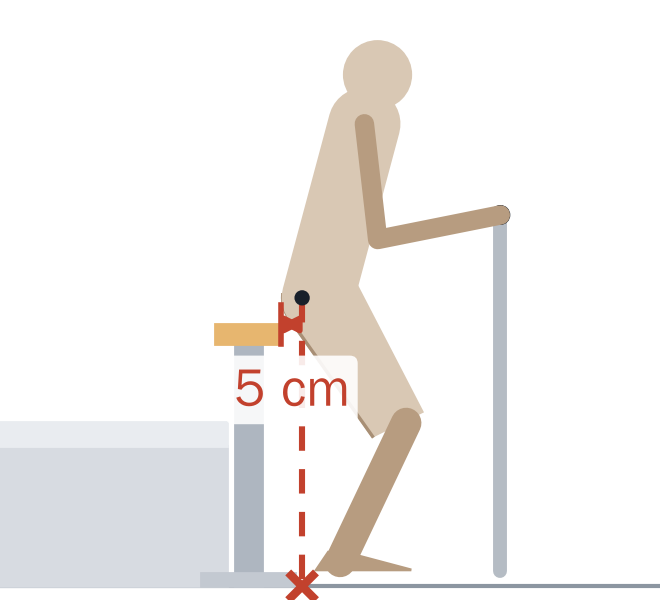
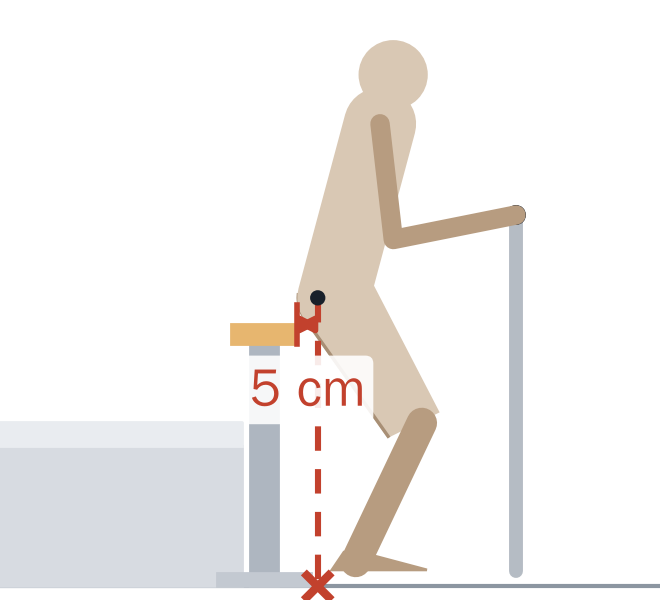
Deck v7 (zh): support-zone comparison, load-path figure, top-view stability with support polygon, risk anatomy, limits roadmap, current-design team figure, framed clips; published
Claude-Session: https://claude.ai/code/session_0189MFebuQQaozftdhaMXEmZ

Changed region(s): [[0.303, 0.06, 0.8182, 1.0]]

diff --git a/presentation/slides/whynot.html b/presentation/slides/whynot.html
@@ -1,44 +1,45 @@
-<section id="whynot" data-transition="fade" style="background:#FCFBF8;color:#18202A;font-family:'Noto Sans SC', Arial, sans-serif;padding:128px 128px 160px;display:flex;flex-direction:column;gap:24px">
-<div style="display:flex;flex-direction:column;gap:14px">
+<section id="whynot" data-transition="fade" style="background:#FCFBF8;color:#18202A;font-family:'Noto Sans SC', Arial, sans-serif;padding:128px 128px 160px;display:flex;flex-direction:column;gap:16px">
+<div style="display:flex;flex-direction:column;gap:12px">
 <p style="font-size:26px;color:#9A5408;letter-spacing:2px">2 · 方案比较</p>
 <h2 style="font-family:'Noto Serif SC', Georgia, serif;font-size:46px;font-weight:700;line-height:1.2">省力和抬高床相当；真正的差别在腿一软时：起身大半程，座板还在臀部下面</h2>
 </div>
-<div style="display:grid;grid-template-columns:304px 1fr 1fr 1fr 1fr;column-gap:16px;row-gap:6px;align-items:center">
+<div style="display:grid;grid-template-columns:280px 1fr 1fr 1fr 1fr;column-gap:12px;row-gap:0;align-items:stretch">
+<div style="display:flex;flex-direction:column;justify-content:center;gap:14px;padding-right:12px"><p style="font-size:24px;line-height:1.3;color:#3F4A57">虚线：腿一软，臀部直着往下落</p><p style="font-size:24px;line-height:1.3;color:#3F4A57"><span style="color:#2F7A55">●</span> 落在支撑面上</p><p style="font-size:24px;line-height:1.3;color:#3F4A57"><span style="color:#C2412D">✕</span> 落空；数字 = 离支撑边缘多远</p></div>
+<div style=";padding:0 3px;display:flex;justify-content:center"><img src="/_blob/78a064d274562d6e97710158ee9fc28a" alt="低床 0.42 m 加 L 形扶手，起身约 70% 时：臀部直着落下的落点在床沿外 16 cm，落到地上" style="width:330px;height:300px;object-fit:contain;background:#FFFFFF;border-radius:14px;border:1px solid #E2DED5"></div>
+<div style=";padding:0 3px;display:flex;justify-content:center"><img src="/_blob/a2100d1d5f7be02d0c52501c961d5416" alt="抬高床 0.58 m 加扶手，起身约 70% 时：落点在床沿外 16 cm，落到地上" style="width:330px;height:300px;object-fit:contain;background:#FFFFFF;border-radius:14px;border:1px solid #E2DED5"></div>
+<div style=";padding:0 3px;display:flex;justify-content:center"><img src="/_blob/7b67e31faa08ca3e5bf83d219ba56f60" alt="竖直升降座板，起身约 70% 时：座板只往上走，落点在座板前缘外 5 cm" style="width:330px;height:300px;object-fit:contain;background:#FFFFFF;border-radius:14px;border:1px solid #E2DED5"></div>
+<div style="background:#FBF3E8;padding:0 3px;display:flex;justify-content:center"><img src="/_blob/02fcec413c2cbe4c26c7fd9f681d8328" alt="起身台曲线座板，起身约 70% 时：座板跟着大腿前移、上升、前倾，落点落在座板上" style="width:330px;height:300px;object-fit:contain;background:#FFFFFF;border-radius:14px;border:3px solid #B4620A"></div>
 <div></div>
-<img src="/_blob/cce52c77347373ea793ff779e129e5f9" alt="低床 0.42 m 加 L 形扶手：人起到一半时臀部已离开床沿" style="width:324px;height:176px;object-fit:contain;background:#FFFFFF;border-radius:14px;border:1px solid #E2DED5">
-<img src="/_blob/d3b35427318241aae1961dad250d24c9" alt="床脚垫高到 0.58 m 加扶手：人起到一半时臀部已离开床沿" style="width:324px;height:176px;object-fit:contain;background:#FFFFFF;border-radius:14px;border:1px solid #E2DED5">
-<img src="/_blob/5040f5f7cf3e67828d619170e1e44709" alt="竖直升降座板：座板只往上走，人起到一半时臀部已到了座板前面" style="width:324px;height:176px;object-fit:contain;background:#FFFFFF;border-radius:14px;border:1px solid #E2DED5">
-<img src="/_blob/345c913f14d872c0e69ea4b5d657dee8" alt="起身台：斜导轨座板跟着大腿前移、上升、前倾，人起到一半时座板还在臀部下面" style="width:324px;height:176px;object-fit:contain;background:#FFFFFF;border-radius:14px;border:2px solid #B4620A">
-<div></div>
-<p style="font-size:24px;font-weight:700;text-align:center">低床 0.42 m + L 扶手</p>
-<p style="font-size:24px;font-weight:700;text-align:center">抬高床 0.58 m + 扶手</p>
-<p style="font-size:24px;font-weight:700;text-align:center">竖直升降座板</p>
-<p style="font-size:24px;font-weight:700;text-align:center;color:#9A5408">起身台（曲线座板）</p>
-<p style="font-size:24px;line-height:1.3;color:#66707C;border-top:1px solid #E2DED5;padding-top:10px">省力：最吃力时的 effort</p>
-<p style="font-size:28px;text-align:center;color:#3F4A57;border-top:1px solid #E2DED5;padding-top:10px">0.40</p>
-<p style="font-size:28px;text-align:center;color:#3F4A57;border-top:1px solid #E2DED5;padding-top:10px">0.29</p>
-<p style="font-size:28px;text-align:center;color:#3F4A57;border-top:1px solid #E2DED5;padding-top:10px">—</p>
-<p style="font-size:28px;text-align:center;font-weight:700;background:#FBF3E8;border-top:1px solid #E2DED5;padding-top:10px">0.26</p>
-<p style="font-size:24px;line-height:1.3;color:#66707C;border-top:1px solid #E2DED5;padding-top:10px">腿一软 ① 髋直着落</p>
-<p style="font-size:28px;text-align:center;color:#3F4A57;border-top:1px solid #E2DED5;padding-top:10px">14%</p>
-<p style="font-size:28px;text-align:center;color:#3F4A57;border-top:1px solid #E2DED5;padding-top:10px">15%</p>
-<p style="font-size:28px;text-align:center;color:#3F4A57;border-top:1px solid #E2DED5;padding-top:10px">43%</p>
-<p style="font-size:28px;text-align:center;font-weight:700;background:#FBF3E8;border-top:1px solid #E2DED5;padding-top:10px">100%（每人 ≥ 86%）</p>
-<p style="font-size:24px;line-height:1.3;color:#66707C;border-top:1px solid #E2DED5;padding-top:10px">② 膝软、髋往后落</p>
-<p style="font-size:28px;text-align:center;color:#3F4A57;border-top:1px solid #E2DED5;padding-top:10px">41%</p>
-<p style="font-size:28px;text-align:center;color:#3F4A57;border-top:1px solid #E2DED5;padding-top:10px">32%</p>
-<p style="font-size:28px;text-align:center;color:#3F4A57;border-top:1px solid #E2DED5;padding-top:10px">—</p>
-<p style="font-size:28px;text-align:center;font-weight:700;background:#FBF3E8;border-top:1px solid #E2DED5;padding-top:10px">73%</p>
-<p style="font-size:24px;line-height:1.3;color:#66707C;border-top:1px solid #E2DED5;padding-top:10px">③ 直挺挺往后倒</p>
-<p style="font-size:28px;text-align:center;color:#3F4A57;border-top:1px solid #E2DED5;padding-top:10px">接得住</p>
-<p style="font-size:28px;text-align:center;color:#3F4A57;border-top:1px solid #E2DED5;padding-top:10px">接得住</p>
-<p style="font-size:28px;text-align:center;color:#3F4A57;border-top:1px solid #E2DED5;padding-top:10px">—</p>
-<p style="font-size:28px;text-align:center;font-weight:700;background:#FBF3E8;border-top:1px solid #E2DED5;padding-top:10px">28%</p>
+<p style="font-size:24px;font-weight:700;text-align:center;padding:6px 0;">低床 0.42 m + L 扶手</p>
+<p style="font-size:24px;font-weight:700;text-align:center;padding:6px 0;">抬高床 0.58 m + 扶手</p>
+<p style="font-size:24px;font-weight:700;text-align:center;padding:6px 0;">竖直升降座板</p>
+<p style="font-size:24px;font-weight:700;text-align:center;padding:6px 0;color:#9A5408;background:#FBF3E8">起身台（曲线座板）</p>
+<p style="font-size:24px;line-height:1.25;color:#66707C;border-top:1px solid #E2DED5;padding:6px 0;height:100%;display:flex;align-items:center">省力 effort（越短越好）</p>
+<div style="display:flex;align-items:center;gap:12px;height:100%;padding:6px 10px;border-top:1px solid #E2DED5;"><div style="width:230px;height:30px;background:#8C96A1;border-radius:0 6px 6px 0"></div><p style="font-size:28px;color:#3F4A57">0.40</p></div>
+<div style="display:flex;align-items:center;gap:12px;height:100%;padding:6px 10px;border-top:1px solid #E2DED5;"><div style="width:167px;height:30px;background:#8C96A1;border-radius:0 6px 6px 0"></div><p style="font-size:28px;color:#3F4A57">0.29</p></div>
+<div style="display:flex;align-items:center;gap:12px;height:100%;padding:6px 10px;border-top:1px solid #E2DED5;"><p style="font-size:28px;color:#66707C">—</p></div>
+<div style="display:flex;align-items:center;gap:12px;height:100%;padding:6px 10px;border-top:1px solid #E2DED5;background:#FBF3E8"><div style="width:150px;height:30px;background:#B4620A;border-radius:0 6px 6px 0"></div><p style="font-size:28px;font-weight:700;color:#18202A">0.26</p></div>
+<p style="font-size:24px;line-height:1.25;color:#66707C;border-top:1px solid #E2DED5;padding:6px 0;height:100%;display:flex;align-items:center">腿一软 ① 髋直着落</p>
+<div style="display:flex;align-items:center;gap:12px;height:100%;padding:6px 10px;border-top:1px solid #E2DED5;"><div style="width:230px;height:30px;background:#F3DCD6;border-radius:0 6px 6px 0;display:flex"><div style="width:32px;height:30px;background:#2F7A55;display:flex;align-items:center;justify-content:center"></div></div><p style="font-size:28px;color:#3F4A57">14%</p></div>
+<div style="display:flex;align-items:center;gap:12px;height:100%;padding:6px 10px;border-top:1px solid #E2DED5;"><div style="width:230px;height:30px;background:#F3DCD6;border-radius:0 6px 6px 0;display:flex"><div style="width:34px;height:30px;background:#2F7A55;display:flex;align-items:center;justify-content:center"></div></div><p style="font-size:28px;color:#3F4A57">15%</p></div>
+<div style="display:flex;align-items:center;gap:12px;height:100%;padding:6px 10px;border-top:1px solid #E2DED5;"><div style="width:230px;height:30px;background:#F3DCD6;border-radius:0 6px 6px 0;display:flex"><div style="width:99px;height:30px;background:#2F7A55;display:flex;align-items:center;justify-content:center"></div></div><p style="font-size:28px;color:#3F4A57">43%</p></div>
+<div style="display:flex;align-items:center;gap:12px;height:100%;padding:6px 10px;border-top:1px solid #E2DED5;background:#FBF3E8"><div style="width:230px;height:30px;background:#F3DCD6;border-radius:0 6px 6px 0;display:flex"><div style="width:230px;height:30px;background:#2F7A55;display:flex;align-items:center;justify-content:center"><p style="font-size:24px;color:#FFFFFF;font-weight:700">每人 ≥ 86%</p></div></div><p style="font-size:28px;font-weight:700;color:#18202A">100%</p></div>
+<p style="font-size:24px;line-height:1.25;color:#66707C;border-top:1px solid #E2DED5;padding:6px 0;height:100%;display:flex;align-items:center">② 膝软、髋往后落</p>
+<p style="font-size:28px;text-align:center;color:#3F4A57;border-top:1px solid #E2DED5;padding:6px 0;height:100%">41%</p>
+<p style="font-size:28px;text-align:center;color:#3F4A57;border-top:1px solid #E2DED5;padding:6px 0;height:100%">32%</p>
+<p style="font-size:28px;text-align:center;color:#3F4A57;border-top:1px solid #E2DED5;padding:6px 0;height:100%">—</p>
+<p style="font-size:28px;text-align:center;font-weight:700;color:#18202A;background:#FBF3E8;border-top:1px solid #E2DED5;padding:6px 0;height:100%">73%</p>
+<p style="font-size:24px;line-height:1.25;color:#66707C;border-top:1px solid #E2DED5;padding:6px 0;height:100%;display:flex;align-items:center">③ 直挺挺往后倒</p>
+<p style="font-size:28px;text-align:center;color:#3F4A57;border-top:1px solid #E2DED5;padding:6px 0;height:100%">接得住</p>
+<p style="font-size:28px;text-align:center;color:#3F4A57;border-top:1px solid #E2DED5;padding:6px 0;height:100%">接得住</p>
+<p style="font-size:28px;text-align:center;color:#3F4A57;border-top:1px solid #E2DED5;padding:6px 0;height:100%">—</p>
+<p style="font-size:28px;text-align:center;font-weight:700;color:#18202A;background:#FBF3E8;border-top:1px solid #E2DED5;padding:6px 0;height:100%">28%</p>
 </div>
-<div style="display:grid;grid-template-columns:1fr 1fr;gap:32px">
-<p style="font-size:26px;line-height:1.45"><b>省力：</b>比低床省 33%；和抬高床相当（再省约 10%，但 22/81 人略费力）</p>
-<p style="font-size:26px;line-height:1.45"><b>接住：</b>人一站起来，臀部已在床沿外约 25 cm；座板一路跟在下面。往后倒时床更好 → 座板后缘软包</p>
+<p style="font-size:24px;color:#66707C">图只是一个瞬间（1.60 m 典型用户，起身约 70%）；绿条和百分比算的是整个起身过程：腿一软时臀部仍落在支撑面上的那段占比</p>
+<div style="display:grid;grid-template-columns:870px 1fr;gap:32px">
+<p style="font-size:26px;line-height:1.4"><b>省力：</b>比低床省 33%；和抬高床相当（再省约 10%，但 22/81 人略费力）</p>
+<p style="font-size:26px;line-height:1.4"><b>接住：</b>起到约七成时臀部已在床沿外 16 cm（站直时约 25 cm）；座板一路跟在下面。往后倒时床更好 → 座板后缘软包</p>
 </div>
 <p style="position:absolute;left:128px;bottom:64px;width:1664px;font-size:24px;color:#66707C">2D 准静态，81 人中位数。①②③：起身中任一时刻腿一软，臀部落点仍在支撑面上的起身阶段占比（床按坐在床沿算）；三种是边界情况。竖直升降只算了 ①。effort 越低越轻松</p>
-<aside>这一页是主线。先说实话：只比省力，把床垫高到 0.58 米加好扶手已经不错；起身台比低床省约三分之一，和抬高床只差约 10%，还有 22 人略费力，所以省力上只是相当。真正的差别在腿一软的时候。上面四张图是同一时刻：人起到一半，臀部已在床沿外约 25 厘米，床够不着；竖直座板只往上走，臀部在它前面；只有曲线座板一路跟在下面。髋直着往下落，床只在起身最开始约 15% 接得住，竖直升降 43%，座板全程接得住；膝软往后落，座板 73%。但直挺挺往后倒时床更好，所以座板后缘要软包。</aside>
+<aside>这一页是主线。先说实话：只比省力，把床垫高到 0.58 米加好扶手已经不错；起身台比低床省约三分之一，和抬高床只差约 10%，还有 22 人略费力，所以省力上只是相当。真正的差别在腿一软的时候。四张图是同一时刻，起身约七成，看虚线落点：两种床都在床沿外约 16 厘米，站直时约 25 厘米；竖直座板只往上走，落在它前面 5 厘米；只有曲线座板还托在下面。绿条：床只在起身开头约 15% 接得住，竖直升降 43%，座板全程；膝软往后落，座板 73%。但直挺挺往后倒时床更好，所以座板后缘要软包。</aside>
 </section>

diff --git a/presentation/slides/stability.html b/presentation/slides/stability.html
@@ -4,7 +4,7 @@
 <h2 style="font-family:'Noto Serif SC', Georgia, serif;font-size:60px;font-weight:700;line-height:1.2">人在台上不会翻；人在地上扶一下会翻，所以和床固定</h2>
 </div>
 <div style="display:grid;grid-template-columns:1010px 1fr;gap:40px;align-items:start">
-<img src="ASSET:presentation/assets_v7/stability_top.png" alt="俯视图：底座即支撑多边形；三种人在台上的工况，地面合力作用点都在底座内（绿点）；人站在地上往床头推横杆 156 N 时，合力作用点压到床头侧边上（红点），台架开始翻；底座靠床一边两端和床固定" style="width:1010px;height:622px;object-fit:contain;background:#FBFAF6;border-radius:20px;border:1px solid #E2DED5">
+<img src="/_blob/adf94fd8b2009c42d59fcc95e9500b83" alt="俯视图：底座即支撑多边形；三种人在台上的工况，地面合力作用点都在底座内（绿点）；人站在地上往床头推横杆 156 N 时，合力作用点压到床头侧边上（红点），台架开始翻；底座靠床一边两端和床固定" style="width:1010px;height:622px;object-fit:contain;background:#FBFAF6;border-radius:20px;border:1px solid #E2DED5">
 <div style="display:flex;flex-direction:column;gap:26px">
 <div style="display:flex;gap:16px;align-items:flex-start"><div style="flex:none;padding-top:11px"><span style="display:block;width:22px;height:22px;border-radius:11px;background:#2F7A55"></span></div><p style="font-size:28px;line-height:1.45;color:#3F4A57"><b style="color:#18202A">人在台上</b>：手拉扶手是人和台架之间的内力，合力作用点都留在底座内</p></div>
 <div style="display:flex;gap:16px;align-items:flex-start"><div style="flex:none;padding-top:11px"><span style="display:block;width:22px;height:22px;border-radius:11px;background:#C2412D"></span></div><p style="font-size:28px;line-height:1.45;color:#3F4A57"><b style="color:#18202A">人在地上</b>：推横杆是外力，往床头推 <b style="color:#A2431F">156 N</b>（约 16 kg 力）合力就压到边上，开始翻</p></div>

diff --git a/presentation/slides/risk.html b/presentation/slides/risk.html
@@ -4,7 +4,7 @@
 <h2 style="font-family:'Noto Serif SC', Georgia, serif;font-size:60px;font-weight:700;line-height:1.2">六个风险：在哪里、怎么防</h2>
 </div>
 <div style="display:grid;grid-template-columns:590px 1fr;gap:40px;align-items:start">
-<img src="ASSET:presentation/assets_v7/risk_anatomy.png" alt="侧视图：座板抬升到最大前倾时，编号标出四个风险所在的零件" style="width:590px;height:508px;object-fit:contain;background:#FBFAF6;border-radius:20px;border:1px solid #E2DED5">
+<img src="/_blob/04ab201affefc6d64ecffd7c30fca2f8" alt="侧视图：座板抬升到最大前倾时，编号标出四个风险所在的零件" style="width:590px;height:508px;object-fit:contain;background:#FBFAF6;border-radius:20px;border:1px solid #E2DED5">
 <div style="display:flex;flex-direction:column;gap:18px">
 <div style="display:flex;gap:18px;align-items:flex-start"><span style="flex:none;width:48px;height:48px;border-radius:24px;background:#B4620A;color:#FFFFFF;font-size:28px;font-weight:700;display:flex;align-items:center;justify-content:center">1</span><div style="display:flex;flex-direction:column;gap:4px"><p style="font-size:30px;font-weight:700;line-height:1.3">夹手、夹腿 <span style="color:#9A5408">· 间隙 3 cm</span></p><p style="font-size:24px;line-height:1.4;color:#3F4A57">座板侧缘到箱壁 3 cm；支架从毛刷竖槽伸出；后缘软包，下降遇阻（电机电流或座板测力突变）即停</p></div></div>
 <div style="display:flex;gap:18px;align-items:flex-start"><span style="flex:none;width:48px;height:48px;border-radius:24px;background:#B4620A;color:#FFFFFF;font-size:28px;font-weight:700;display:flex;align-items:center;justify-content:center">2</span><div style="display:flex;flex-direction:column;gap:4px"><p style="font-size:30px;font-weight:700;line-height:1.3">从座板滑落 <span style="color:#9A5408">· 前倾 ≤ 16°</span></p><p style="font-size:24px;line-height:1.4;color:#3F4A57">全程最大 15.7°；高摩擦面料；压力中心偏出安全区就不抬</p></div></div>

diff --git a/presentation/slides/mechanism.html b/presentation/slides/mechanism.html
@@ -13,7 +13,7 @@
 </ul>
 <div style="display:flex;flex-direction:column;gap:10px">
 <p style="font-size:24px;line-height:1.4;color:#3F4A57"><b style="color:#18202A">座板只挂在一侧，怎么扛：</b>力按 ①→②→③ 传到导轨；座板外缘总下沉约 4 mm</p>
-<img src="ASSET:presentation/assets_v7/fig_loadpath.png" alt="剖面图：① 偏载 100 kg×1.5、偏向敞开一侧 10 cm 并加 0.3 倍侧推，压在座板上；② 力沿铰点 1 轴传进一对圆锥滚子轴承，力矩 586 N·m，安全系数 3.2；③ 再经焊在滑块板上的轴承座、滑块板传到双导轨，最重的滑块 5.2 kN，安全系数 2.5" style="width:896px;height:340px;object-fit:contain;background:#FFFFFF;border-radius:16px;border:1px solid #E2DED5">
+<img src="/_blob/7908cbe7876e4c667c5658118fb7d287" alt="剖面图：① 偏载 100 kg×1.5、偏向敞开一侧 10 cm 并加 0.3 倍侧推，压在座板上；② 力沿铰点 1 轴传进一对圆锥滚子轴承，力矩 586 N·m，安全系数 3.2；③ 再经焊在滑块板上的轴承座、滑块板传到双导轨，最重的滑块 5.2 kN，安全系数 2.5" style="width:896px;height:340px;object-fit:contain;background:#FFFFFF;border-radius:16px;border:1px solid #E2DED5">
 </div>
 </div>
 </div>

diff --git a/presentation/slides/team.html b/presentation/slides/team.html
@@ -4,7 +4,7 @@
 <h2 style="font-family:'Noto Serif SC', Georgia, serif;font-size:60px;font-weight:700;line-height:1.2">分工与贡献</h2>
 </div>
 <div style="display:grid;grid-template-columns:600px 1fr;gap:56px;align-items:center">
-<img src="ASSET:presentation/assets_v7/team_roles.png" alt="起身台侧视图（斜导轨加倾角连杆，人正在起身），标出五个角色各自负责的部分" style="width:600px;height:506px;object-fit:contain;background:#FBFAF6;border-radius:20px;border:1px solid #E2DED5">
+<img src="/_blob/e34e2e150bb2aea97fc6f623844537d7" alt="起身台侧视图（斜导轨加倾角连杆，人正在起身），标出五个角色各自负责的部分" style="width:600px;height:506px;object-fit:contain;background:#FBFAF6;border-radius:20px;border:1px solid #E2DED5">
 <table style="font-size:28px;color:#3F4A57">
 <tr><th style="width:34%">角色 · 组员</th><th style="width:66%">负责的内容</th></tr>
 <tr><td>1 问题与整合<br><span style="color:#9A5408;font-size:24px">[姓名]</span></td><td>问题、用户、方案比较、需求 → 验证 → 结果</td></tr>

diff --git a/presentation/tools/render_slide_local.js b/presentation/tools/render_slide_local.js
@@ -15,7 +15,7 @@ const ALT = { cad_3d_shell: 'assets_v57/3d_a_shell.png', cad_3d_open: 'assets_v5
 const MAP = {};
 for (const [n, u] of Object.entries(bj)) {
   const id = u.split('/').pop();
-  const c = [ALT[n] && P + '/' + ALT[n], P + '/assets_v6/icons/' + n + '.svg', P + '/animations/' + n + '.png', P + '/animations/' + n + '.gif'].filter(Boolean);
+  const c = [ALT[n] && P + '/' + ALT[n], n.startsWith('v7_') && P + '/assets_v7/' + n.slice(3) + '.png', P + '/assets_v6/icons/' + n + '.svg', P + '/animations/' + n + '.png', P + '/animations/' + n + '.gif'].filter(Boolean);
   MAP[id] = c.find(f => fs.existsSync(f));
 }
 (async () => {

diff --git a/presentation/assets_v7/make_whynot_fig.py b/presentation/assets_v7/make_whynot_fig.py
@@ -28,12 +28,13 @@ from seat_relative_motion import track
 from seat_1dof_design import path_of, trunk_for, shank_deg, PAD_AMAX
 os.chdir(_cwd)
 import matplotlib.pyplot as plt
+plt.rcParams["font.family"] = ["WenQuanYi Zen Hei", "DejaVu Sans"]
 from matplotlib.patches import Polygon, Rectangle, Circle
 
 U = (1.60, 0.09, 1.0, 0.29); REF = G.REF; RB = U[1]; F_PICK = 0.70
 A = G.D["anim"][REF]                                        # segment lengths + foot length of the REF user
 PX_W, PX_H = 660, 600                                       # 330 x 300 px on the slide, exported 2x
-Z0, Z1, X0 = -0.035, 1.50, -0.58                            # world window (m), same scale in every panel
+Z0, Z1, X0 = -0.035, 1.50, -0.62                            # world window (m), same scale in every panel
 X1 = X0 + (Z1 - Z0) * PX_W / PX_H
 WHITE = "#FFFFFF"
 
@@ -80,7 +81,7 @@ def draw(key, d, path):
         ax.add_patch(Polygon([(x0, z), (x1, z), (x1, z - 0.05), (x0, z - 0.05)], closed=True, color=G.FOAM_R, zorder=5))
         land_z = 0.035 if xb < Q[0] + 0.12 else 0.0
     elif key == "ours":
-        ax.add_patch(Rectangle((0.03, 0), 0.75, 0.04, color=G.DEV, zorder=2)); G.housing(ax); G.mechanism(ax, d["Q"], d["phi"])
+        ax.add_patch(Rectangle((0.03, 0), 0.75, 0.04, color=G.DEV, zorder=2)); G.housing(ax); G.mechanism(ax, d["Q"], d["phi"], show_inside=False)
         land_z = None
     else:
         land_z = 0.0
@@ -119,5 +120,8 @@ if __name__ == "__main__":
         print(f"{k:9s} f={d['fr']['f']:.3f} hip=({d['fr']['Hp'][0]:.3f},{d['fr']['Hp'][1]:.3f}) tr={d['fr']['tr']:.0f} edge={d['edge']:.3f} "
               f"top={d['top']:.3f} landing x={d['xb']:.3f} catch={100 * d['catch']:+.1f} cm" + (f" Q={d['Q']} phi={d['phi']:.1f} contact={d['contact']}" if 'Q' in d else ""))
         draw(k, d, os.path.join(HERE, f"whynot_{k}.png"))
+    FCJ = json.load(open(os.path.join(CALC, "seat_1dof", "fall_catch.json")))["users"][REF]     # cross-check (stored every 3rd sample)
+    for k, src in (("lowbed", "bed042"), ("highbed", "bed058"), ("vertical", "vertical"), ("ours", "seat")):
+        r = min(FCJ[src], key=lambda x: abs(x[0] - F_PICK)); print(f"fall_catch.json {src:8s} f={r[0]:.3f} catch={100 * r[1]:+.1f} cm")
     json.dump({k: dict(f=d["fr"]["f"], hip=d["fr"]["Hp"], trunk_deg=d["fr"]["tr"], support_edge_x=d["edge"], support_top=d["top"], landing_x=d["xb"],
                        catch_cm=round(100 * d["catch"], 1)) for k, d in DD.items()}, open(os.path.join(HERE, "whynot_fig.json"), "w"), indent=1)
